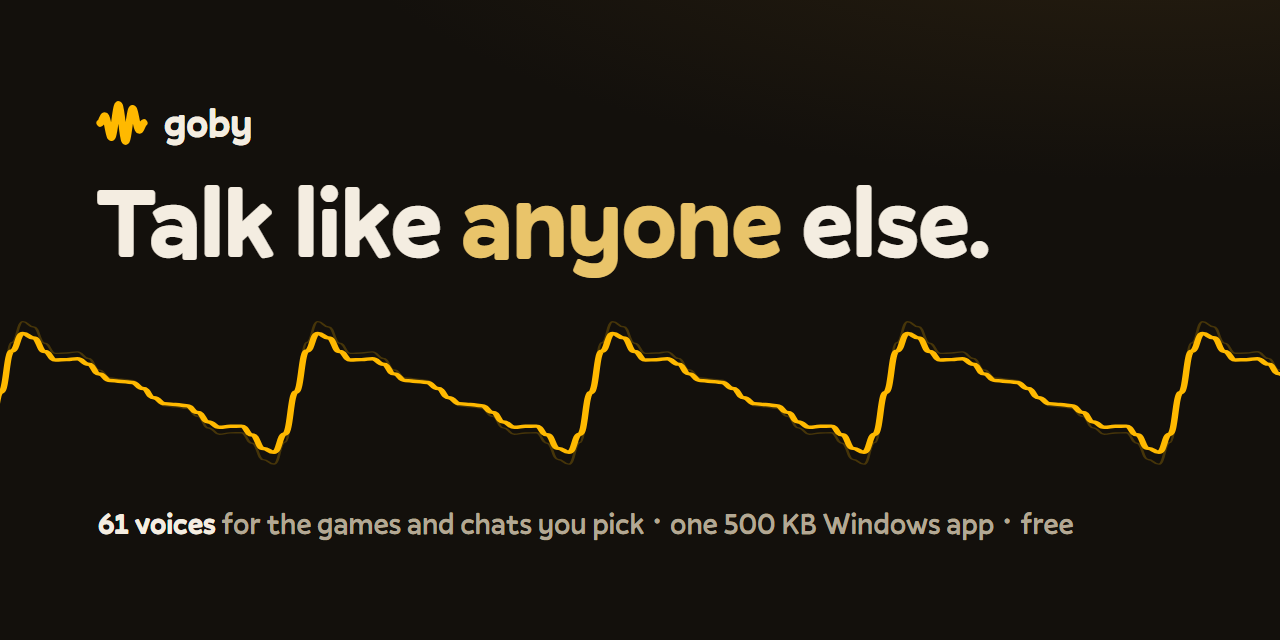
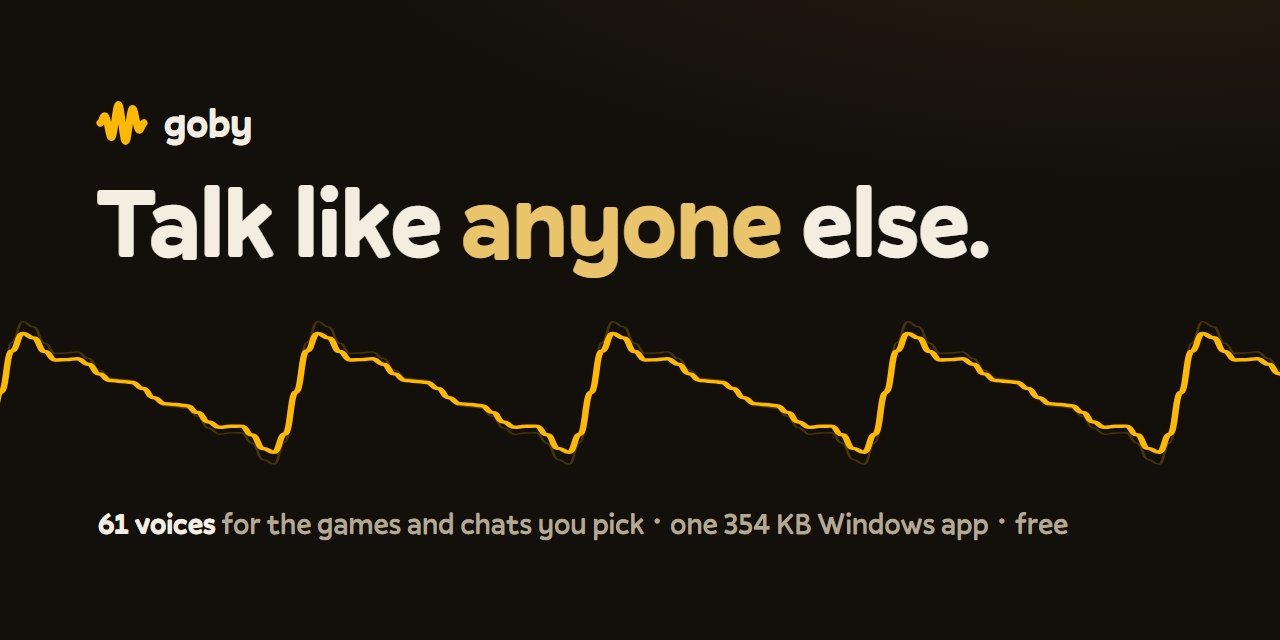
Say 354 KB and 0.4.1 where the README and the site still had the old numbers

Changed region(s): [[0.5625, 0.7812, 0.8438, 0.8438]]

diff --git a/docs/index.html b/docs/index.html
@@ -4,10 +4,10 @@
 <meta charset="utf-8">
 <meta name="viewport" content="width=device-width, initial-scale=1">
 <title>Goby: a tiny voice changer for Windows</title>
-<meta name="description" content="61 voices for CS2, Discord, OBS or any program you pick. One 500 KB Windows app, free and open source, no account.">
+<meta name="description" content="61 voices for CS2, Discord, OBS or any program you pick. One 354 KB Windows app, free and open source, no account.">
 <meta name="theme-color" content="#13100c">
 <meta property="og:title" content="Goby: a tiny voice changer for Windows">
-<meta property="og:description" content="61 voices for the games and chats you pick. One 500 KB Windows app, free and open source.">
+<meta property="og:description" content="61 voices for the games and chats you pick. One 354 KB Windows app, free and open source.">
 <meta property="og:image" content="https://goby.azer.one/images/social.png">
 <meta property="og:url" content="https://goby.azer.one/">
 <meta name="twitter:card" content="summary_large_image">
@@ -41,11 +41,11 @@
       </button>
     </div>
     <div class="foot">
-      <p><b>61 voices</b> for CS2, Discord, OBS or any program you pick, from one <b>500 KB</b> Windows app. Free, open source, no account.</p>
+      <p><b>61 voices</b> for CS2, Discord, OBS or any program you pick, from one <b>354 KB</b> Windows app. Free, open source, no account.</p>
       <div class="get">
         <a class="download" href="https://github.com/Sadykhzadeh/goby/releases/latest">
           <svg viewBox="0 0 20 20" fill="none" stroke="currentColor" stroke-width="2.2" stroke-linecap="round" stroke-linejoin="round" aria-hidden="true"><path d="M10 3v10M5.5 8.8 10 13.3l4.5-4.5M4 17h12"/></svg>
-          Download Goby 0.4.0
+          Download Goby 0.4.1
         </a>
         <small>Windows 10 and 11</small>
       </div>
@@ -116,7 +116,7 @@
     </details>
     <details>
       <summary>Can other programs still use my microphone?</summary>
-      <p>Yes, Goby shares it. <i>Low latency</i> under Settings &gt; Advanced takes it exclusively for about 14 ms less delay, and then nothing else can record from it while Goby runs.</p>
+      <p>Yes, Goby shares it. <i>Low latency</i> under Settings &gt; Advanced takes it exclusively for about 11 ms less delay, and then nothing else can record from it while Goby runs.</p>
     </details>
     <details>
       <summary>How do I know my copy is the real one?</summary>
@@ -135,7 +135,7 @@
 
 <footer>
   <div class="wrap links">
-    <span>Goby 0.4.0 · GPL-3.0</span>
+    <span>Goby 0.4.1 · GPL-3.0</span>
     <a href="https://github.com/Sadykhzadeh/goby">GitHub</a>
     <a href="https://github.com/Sadykhzadeh/goby/releases">All releases</a>
     <a class="credit" href="https://azer.one">done with <span aria-hidden="true" class="heart">♥</span> by azer.one</a>

diff --git a/site/dsp-wasm/src/bin/site.rs b/site/dsp-wasm/src/bin/site.rs
@@ -42,10 +42,10 @@ const PAGE: &str = r##"<!doctype html>
 <meta charset="utf-8">
 <meta name="viewport" content="width=device-width, initial-scale=1">
 <title>Goby: a tiny voice changer for Windows</title>
-<meta name="description" content="61 voices for CS2, Discord, OBS or any program you pick. One 500 KB Windows app, free and open source, no account.">
+<meta name="description" content="61 voices for CS2, Discord, OBS or any program you pick. One 354 KB Windows app, free and open source, no account.">
 <meta name="theme-color" content="#13100c">
 <meta property="og:title" content="Goby: a tiny voice changer for Windows">
-<meta property="og:description" content="61 voices for the games and chats you pick. One 500 KB Windows app, free and open source.">
+<meta property="og:description" content="61 voices for the games and chats you pick. One 354 KB Windows app, free and open source.">
 <meta property="og:image" content="https://goby.azer.one/images/social.png">
 <meta property="og:url" content="https://goby.azer.one/">
 <meta name="twitter:card" content="summary_large_image">
@@ -79,7 +79,7 @@ const PAGE: &str = r##"<!doctype html>
       </button>
     </div>
     <div class="foot">
-      <p><b>61 voices</b> for CS2, Discord, OBS or any program you pick, from one <b>500 KB</b> Windows app. Free, open source, no account.</p>
+      <p><b>61 voices</b> for CS2, Discord, OBS or any program you pick, from one <b>354 KB</b> Windows app. Free, open source, no account.</p>
       <div class="get">
         <a class="download" href="https://github.com/Sadykhzadeh/goby/releases/latest">
           <svg viewBox="0 0 20 20" fill="none" stroke="currentColor" stroke-width="2.2" stroke-linecap="round" stroke-linejoin="round" aria-hidden="true"><path d="M10 3v10M5.5 8.8 10 13.3l4.5-4.5M4 17h12"/></svg>
@@ -154,7 +154,7 @@ const PAGE: &str = r##"<!doctype html>
     </details>
     <details>
       <summary>Can other programs still use my microphone?</summary>
-      <p>Yes, Goby shares it. <i>Low latency</i> under Settings &gt; Advanced takes it exclusively for about 14 ms less delay, and then nothing else can record from it while Goby runs.</p>
+      <p>Yes, Goby shares it. <i>Low latency</i> under Settings &gt; Advanced takes it exclusively for about 11 ms less delay, and then nothing else can record from it while Goby runs.</p>
     </details>
     <details>
       <summary>How do I know my copy is the real one?</summary>

diff --git a/README.md b/README.md
@@ -2,7 +2,7 @@
 
 <h1 align="center">Goby</h1>
 
-<p align="center"><b>A tiny voice changer for Windows.</b><br>61 voices for CS2, Discord, OBS or any program you pick. One ~500 KB exe, free and open source, no account.</p>
+<p align="center"><b>A tiny voice changer for Windows.</b><br>61 voices for CS2, Discord, OBS or any program you pick. One 354 KB exe, free and open source, no account.</p>
 
 <p align="center">
   <a href="https://github.com/Sadykhzadeh/goby/releases/latest"><img alt="Latest release" src="https://img.shields.io/github/v/release/Sadykhzadeh/goby?label=download&color=ffb900&labelColor=1a1610"></a>
@@ -21,14 +21,14 @@
 
 ## Why Goby
 
-- **Small and quick.** One ~520 KB executable, about 28 ms from your mouth to the game, under 1 % of one CPU core.
+- **Small and quick.** One 354 KB executable, about 28 ms from your mouth to the game, under 1 % of one CPU core.
 - **Only where you want it.** Pick CS2 or Discord on the *Programs* page and only they hear the voice. Everything else keeps your real microphone.
 - **Made for playing.** Hotkeys that work inside a game, favorites, your own tuned voices, and it keeps running in the tray.
 - **Nothing to sign up for.** No account, no ads, nothing sent anywhere. Updates come only from releases signed by the author.
 
 ## Get started
 
-1. Download `goby-0.4.0-windows-x64.exe` from [Releases](https://github.com/Sadykhzadeh/goby/releases/latest) and choose **Install Goby** (or **Just run it**).
+1. Download `goby-0.4.1-windows-x64.exe` from [Releases](https://github.com/Sadykhzadeh/goby/releases/latest) and choose **Install Goby** (or **Just run it**).
 2. Goby needs the free [VB-Audio Virtual Cable](https://vb-audio.com/Cable/) to reach other programs. Without it Goby walks you through installing it and picks it up without a restart.
 3. Open **Programs** and press **+** next to CS2, Discord or OBS. Done: talk.
 
@@ -61,7 +61,7 @@ Every voice is a one-line recipe in [`src/voices.rs`](src/voices.rs), built from
 
 **Will an anti-cheat mind it?** Goby never touches the game. It does not inject anything or read its memory; the game only sees one more microphone, made by VB-Audio's ordinary signed driver.
 
-**Can other programs still use my microphone?** Yes. Goby shares it. *Low latency* under Settings > Advanced takes it exclusively for about 14 ms less delay, and then nothing else can record from it while Goby runs.
+**Can other programs still use my microphone?** Yes. Goby shares it. *Low latency* under Settings > Advanced takes it exclusively for about 11 ms less delay, and then nothing else can record from it while Goby runs.
 
 **Is this build really the author's?** Settings shows the version and the commit it was built from. That says which code it claims to be, not that it is genuine: check the file against `SHA256SUMS.txt` on the release page. Goby's own updater only accepts releases carrying the author's signature.
 

diff --git a/docs/install.md b/docs/install.md
@@ -11,9 +11,9 @@ shortcuts, settings and folder.
 For scripts and package managers:
 
 ```
-goby-0.4.0-windows-x64.exe --install [--desktop]   # silent install, optional desktop shortcut
+goby-0.4.1-windows-x64.exe --install [--desktop]   # silent install, optional desktop shortcut
 goby.exe --uninstall --quiet                        # silent uninstall
-goby-0.4.0-windows-x64.exe --portable               # run without installing or asking
+goby-0.4.1-windows-x64.exe --portable               # run without installing or asking
 ```
 
 ## Updates
